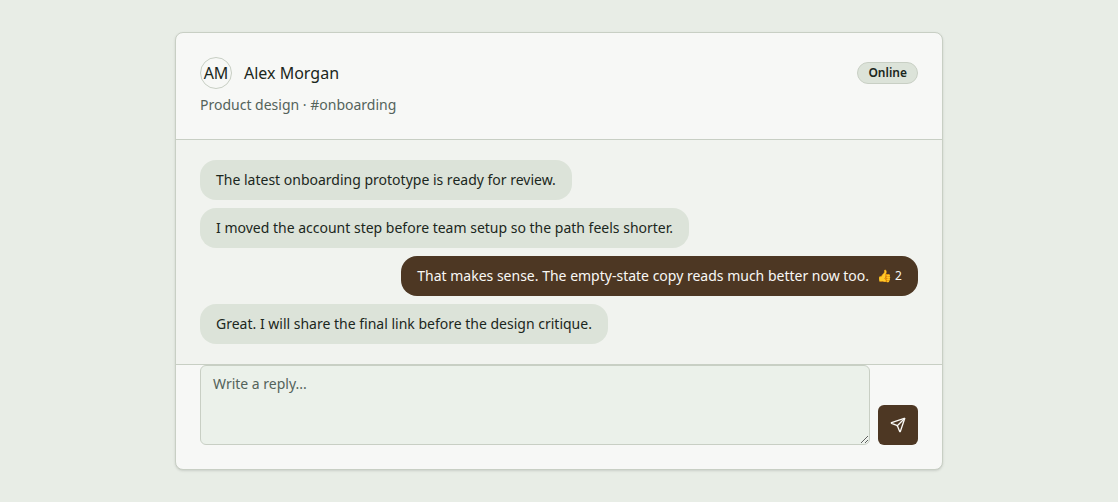
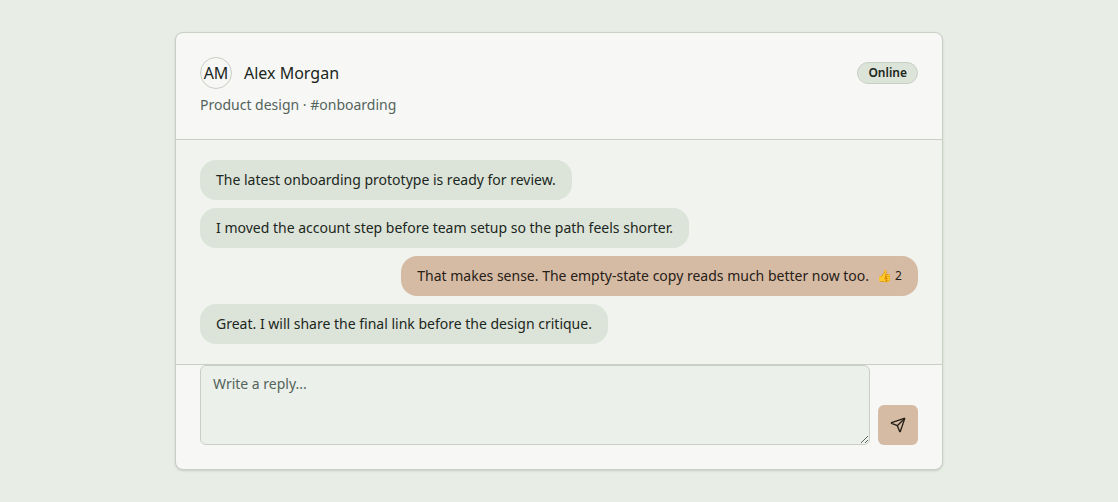
Lighten earthy brown accent

Changed region(s): [[0.3345, 0.508, 0.8211, 0.5976], [0.7603, 0.8068, 0.8211, 0.8964]]

diff --git a/resources/css/app.css b/resources/css/app.css
@@ -55,9 +55,9 @@ html[data-april-density="compact"] [data-slot="card-footer"] {
     --card-foreground: 145 18% 13%;
     --popover: 95 14% 98%;
     --popover-foreground: 145 18% 13%;
-    --primary: 28 38% 22%;
+    --primary: 28 38% 74%;
     --primary-text: 28 38% 22%;
-    --primary-foreground: 35 25% 97%;
+    --primary-foreground: 35 25% 12%;
     --secondary: 100 15% 87%;
     --secondary-foreground: 145 18% 13%;
     --muted: 100 15% 87%;
@@ -66,15 +66,15 @@ html[data-april-density="compact"] [data-slot="card-footer"] {
     --accent-foreground: 145 18% 13%;
     --border: 100 10% 79%;
     --input: 100 10% 79%;
-    --ring: 28 38% 22%;
+    --ring: 28 38% 74%;
     --sidebar-background: 100 16% 89%;
     --sidebar-foreground: 145 18% 13%;
-    --sidebar-primary: 28 38% 22%;
-    --sidebar-primary-foreground: 35 25% 97%;
+    --sidebar-primary: 28 38% 74%;
+    --sidebar-primary-foreground: 35 25% 12%;
     --sidebar-accent: 100 15% 84%;
     --sidebar-accent-foreground: 145 18% 13%;
     --sidebar-border: 100 10% 79%;
-    --sidebar-ring: 28 38% 22%;
+    --sidebar-ring: 28 38% 74%;
     --chart-1: hsl(28 50% 22%);
     --chart-2: hsl(145 20% 23%);
     --chart-3: hsl(84 18% 38%);
@@ -125,8 +125,8 @@ html.dark:not([data-april-theme]) {
 
 @layer components {
     /* The dark brown action color is too dark for copy on forest surfaces. */
-    .dark .text-primary,
-    .dark .hover\:text-primary:hover {
+    .text-primary,
+    .hover\:text-primary:hover {
         color: hsl(var(--primary-text));
     }
 

diff --git a/resources/views/pages/index.blade.php b/resources/views/pages/index.blade.php
@@ -57,7 +57,7 @@ SHELL;
                     <h1 data-april-reveal class="april-reveal mt-7 max-w-xl text-balance text-5xl font-bold tracking-[-0.04em] md:text-6xl" style="--april-delay: 150ms">
                         UI components <span class="primary-text"> crafted </span> for Artisans
                     </h1>
-                    <p data-april-reveal class="april-reveal mt-6 max-w-xl text-lg leading-8 text-muted-foreground md:text-xl" style="--april-delay: 230ms">
+                    <p data-april-reveal class="april-reveal mt-6 max-w-xl text-lg leading-8 text-muted-foreground" style="--april-delay: 230ms">
                         A component library for building product interfaces with the Laravel elegance you already know.
                         Inspired by <a href="https://ui.shadcn.com/" target="_blank" rel="noreferrer" class="font-medium text-foreground underline decoration-primary underline-offset-4">shadcn/ui</a>, built for Blade and Livewire.
                     </p>
@@ -71,9 +71,7 @@ SHELL;
                         </april:button-link>
                     </div>
                     <div data-april-reveal class="april-reveal mt-10 flex flex-wrap gap-x-6 gap-y-2 border-t pt-5 text-sm text-muted-foreground" style="--april-delay: 390ms">
-                        <span><strong class="font-semibold text-foreground">100+</strong> component pieces</span>
                         <span><strong class="font-semibold text-foreground">MIT</strong> licensed</span>
-                        <span><strong class="font-semibold text-foreground">Composer</strong> first</span>
                     </div>
                 </div>
 

diff --git a/resources/views/components/layout.blade.php b/resources/views/components/layout.blade.php
@@ -108,9 +108,9 @@
                 darkPrimaryForeground: '222.2 47.4% 11.2%'
             }),
             green: createAprilPalette('Forest', {
-                primary: '28 38% 22%',
+                primary: '28 38% 74%',
                 primaryText: '28 38% 22%',
-                primaryForeground: '35 25% 97%',
+                primaryForeground: '35 25% 12%',
                 lightBackground: '105 20% 93%',
                 lightForeground: '145 18% 13%',
                 lightCard: '95 14% 97%',
